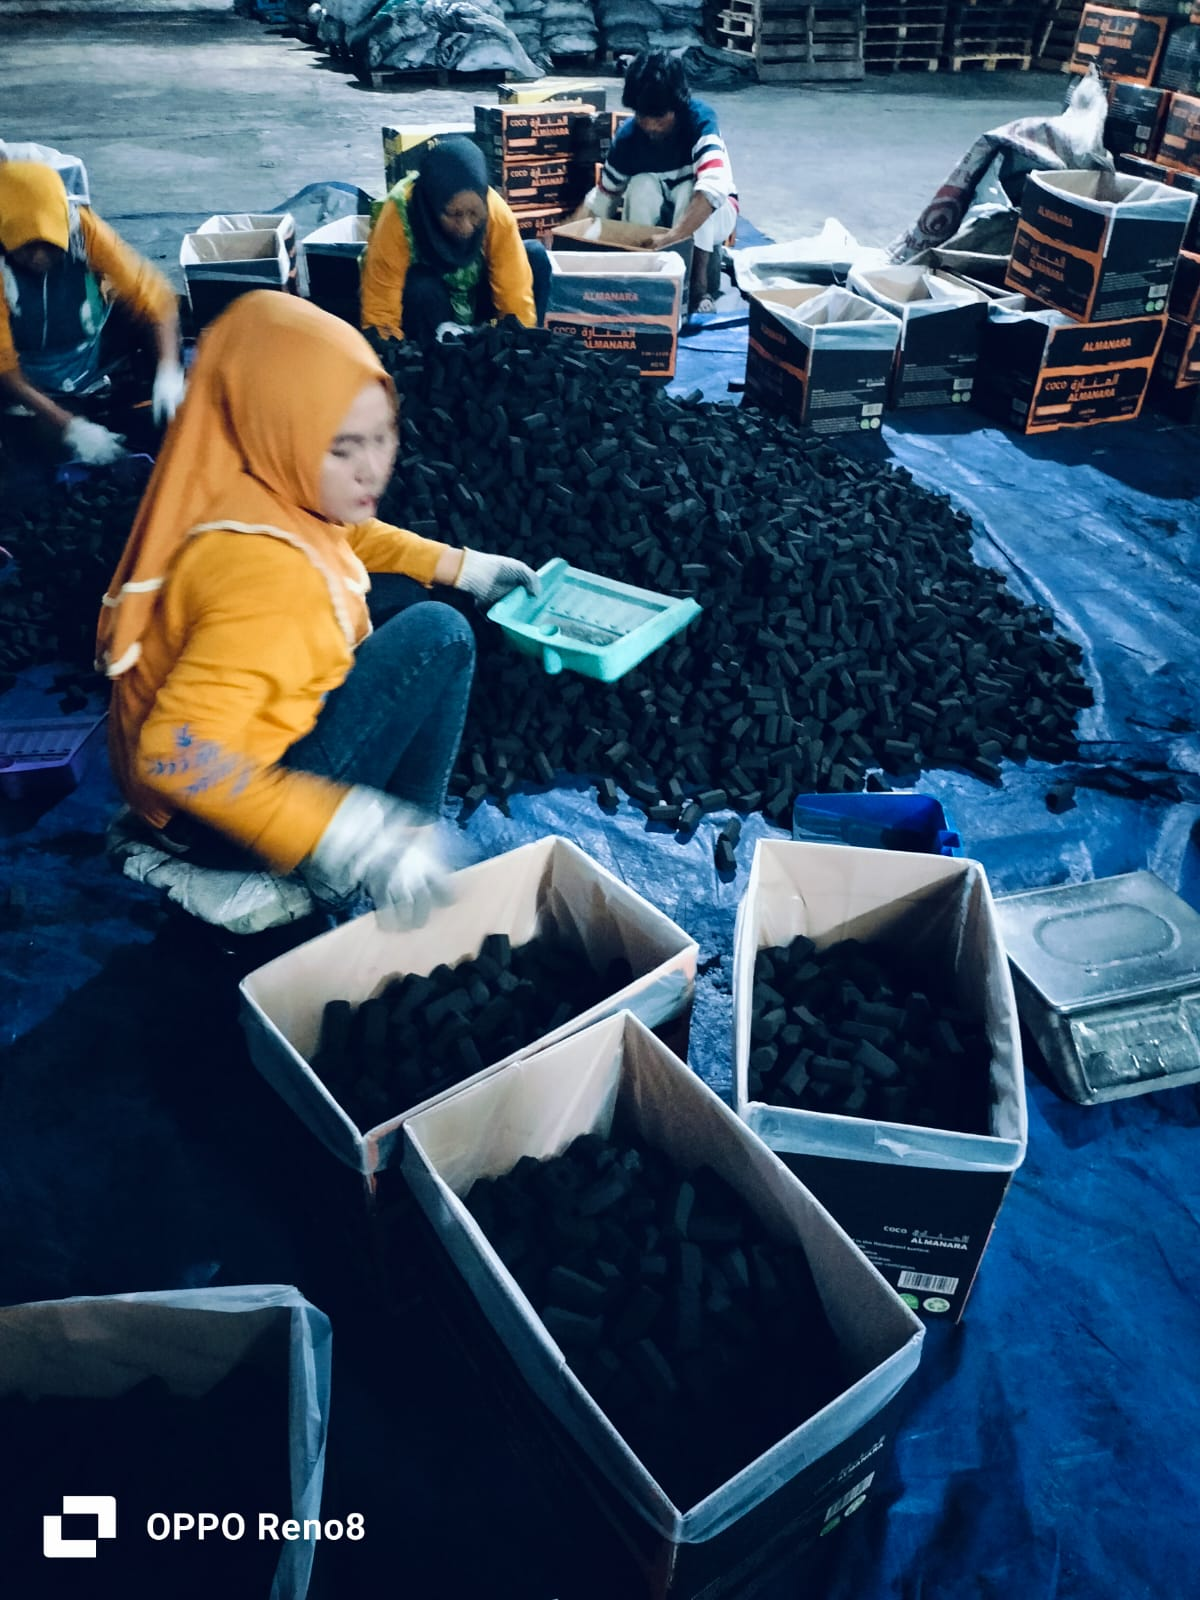
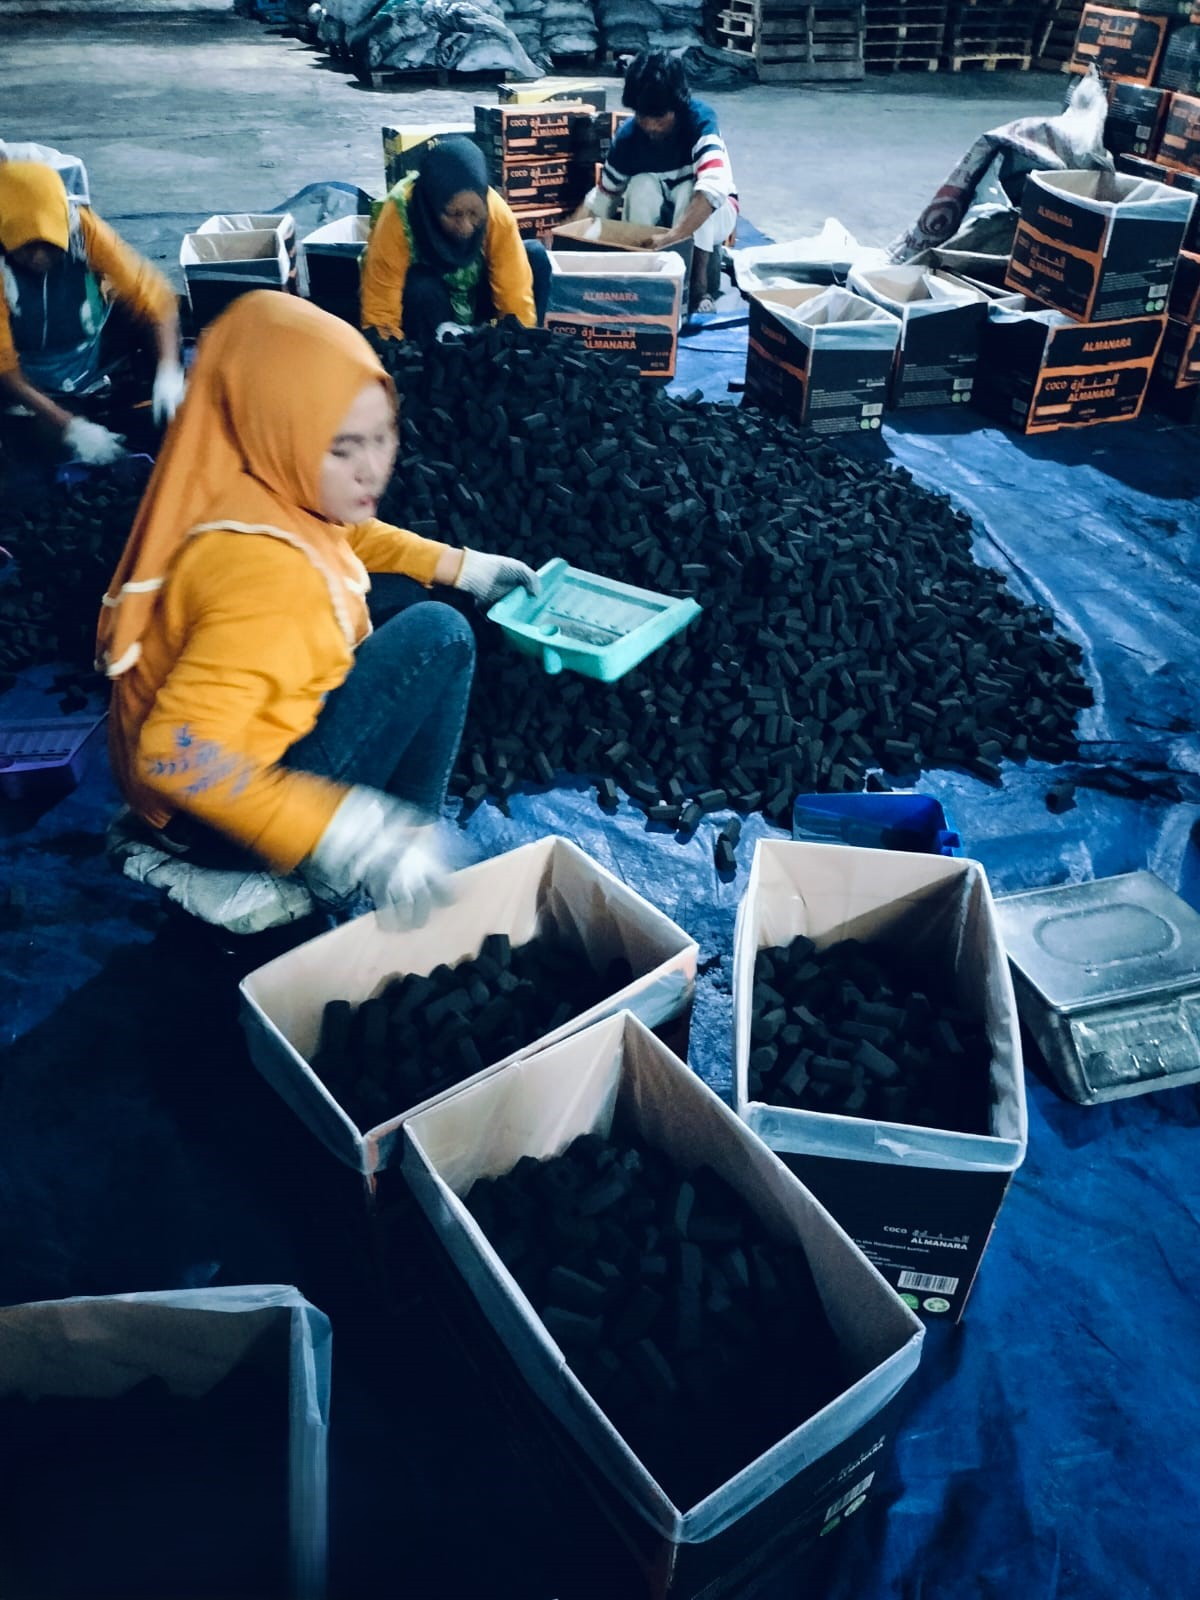
feat: delete one picture from gallery page

Changed region(s): [[0.0308, 0.875, 0.3083, 1.0]]

diff --git a/src/app/gallery/page.tsx b/src/app/gallery/page.tsx
@@ -143,7 +143,7 @@ export default function GalleryPage() {
                 </div>
             </section>
 
-            <section className="relative h-[80vh] overflow-hidden group">
+            {/* <section className="relative h-[80vh] overflow-hidden group">
                 <Image
                     alt="Intense production environment"
                     className="absolute inset-0 w-full h-full object-cover transform group-hover:scale-110 transition-transform duration-1000"
@@ -155,7 +155,7 @@ export default function GalleryPage() {
                     <span className="bg-gallery-primary text-white text-xs font-bold px-3 py-1 uppercase tracking-widest rounded-sm mb-4">Quality Focus</span>
                     <h3 className="text-4xl md:text-5xl font-oswald font-bold text-white uppercase shadow-black drop-shadow-lg">Industrial Mastery</h3>
                 </div>
-            </section>
+            </section> */}
 
             <section className="bg-gallery-surface-light dark:bg-gallery-surface-dark overflow-hidden group">
                 <div className="flex flex-col md:flex-row min-h-[600px]">
